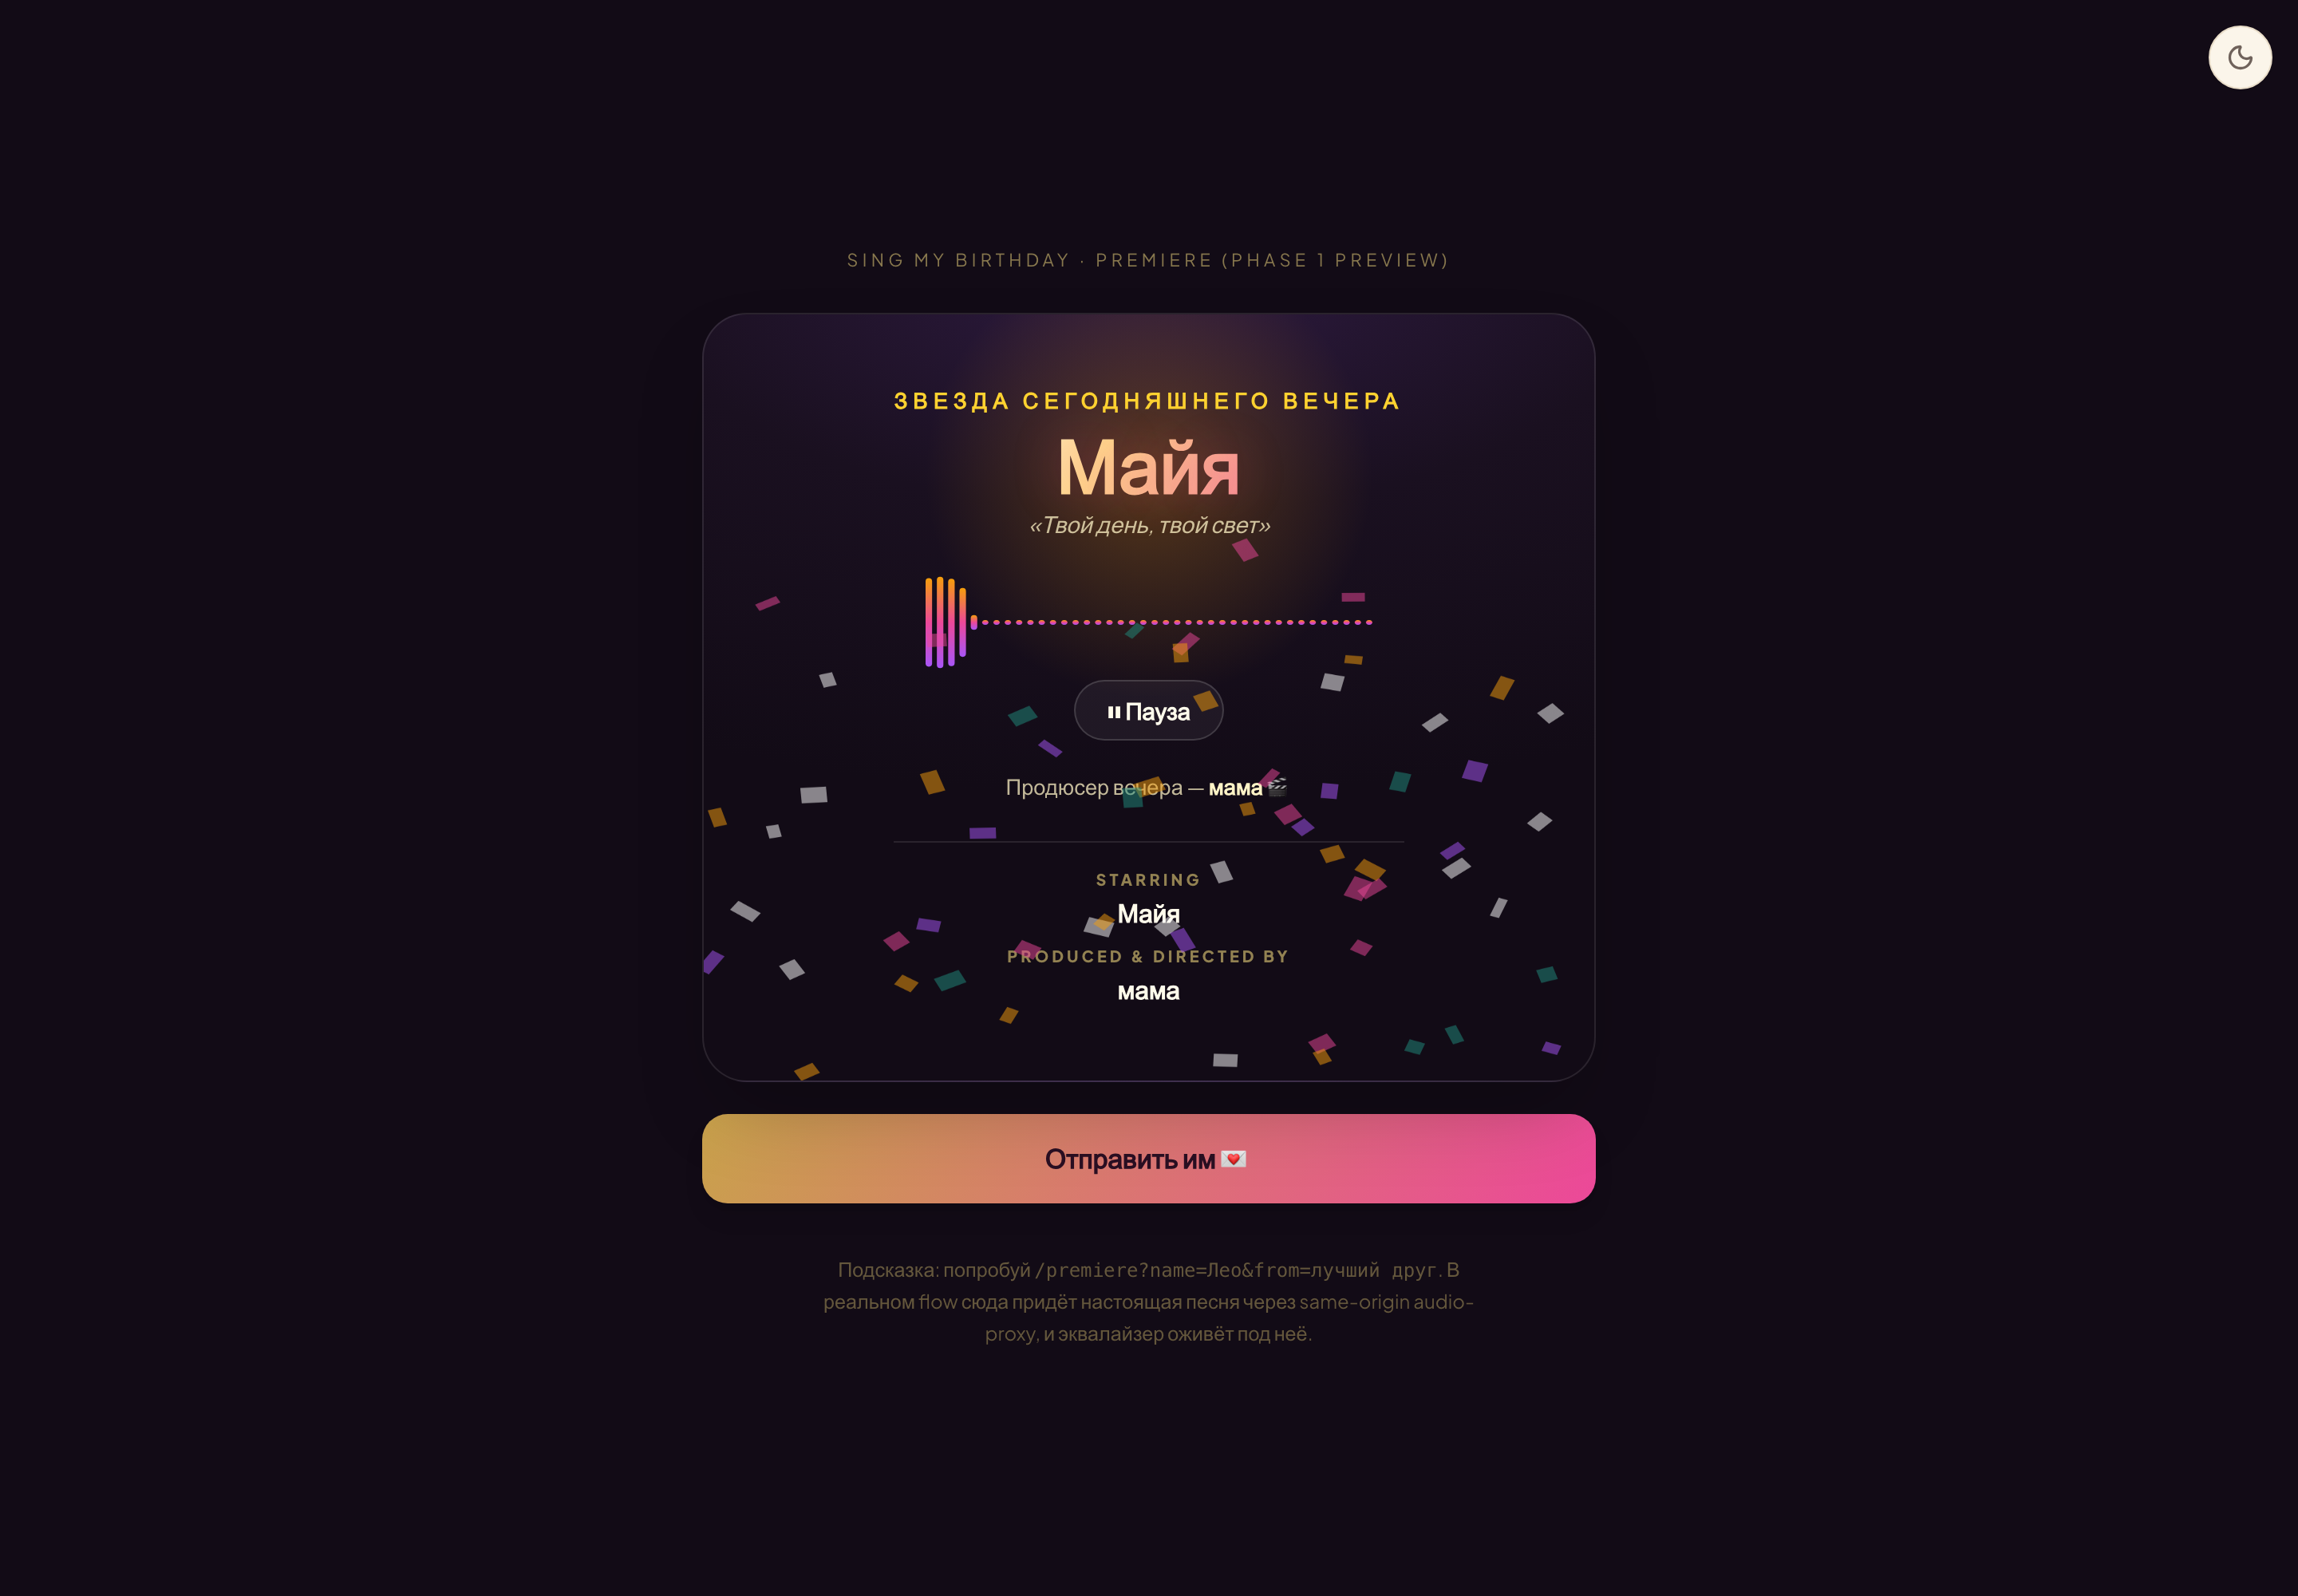
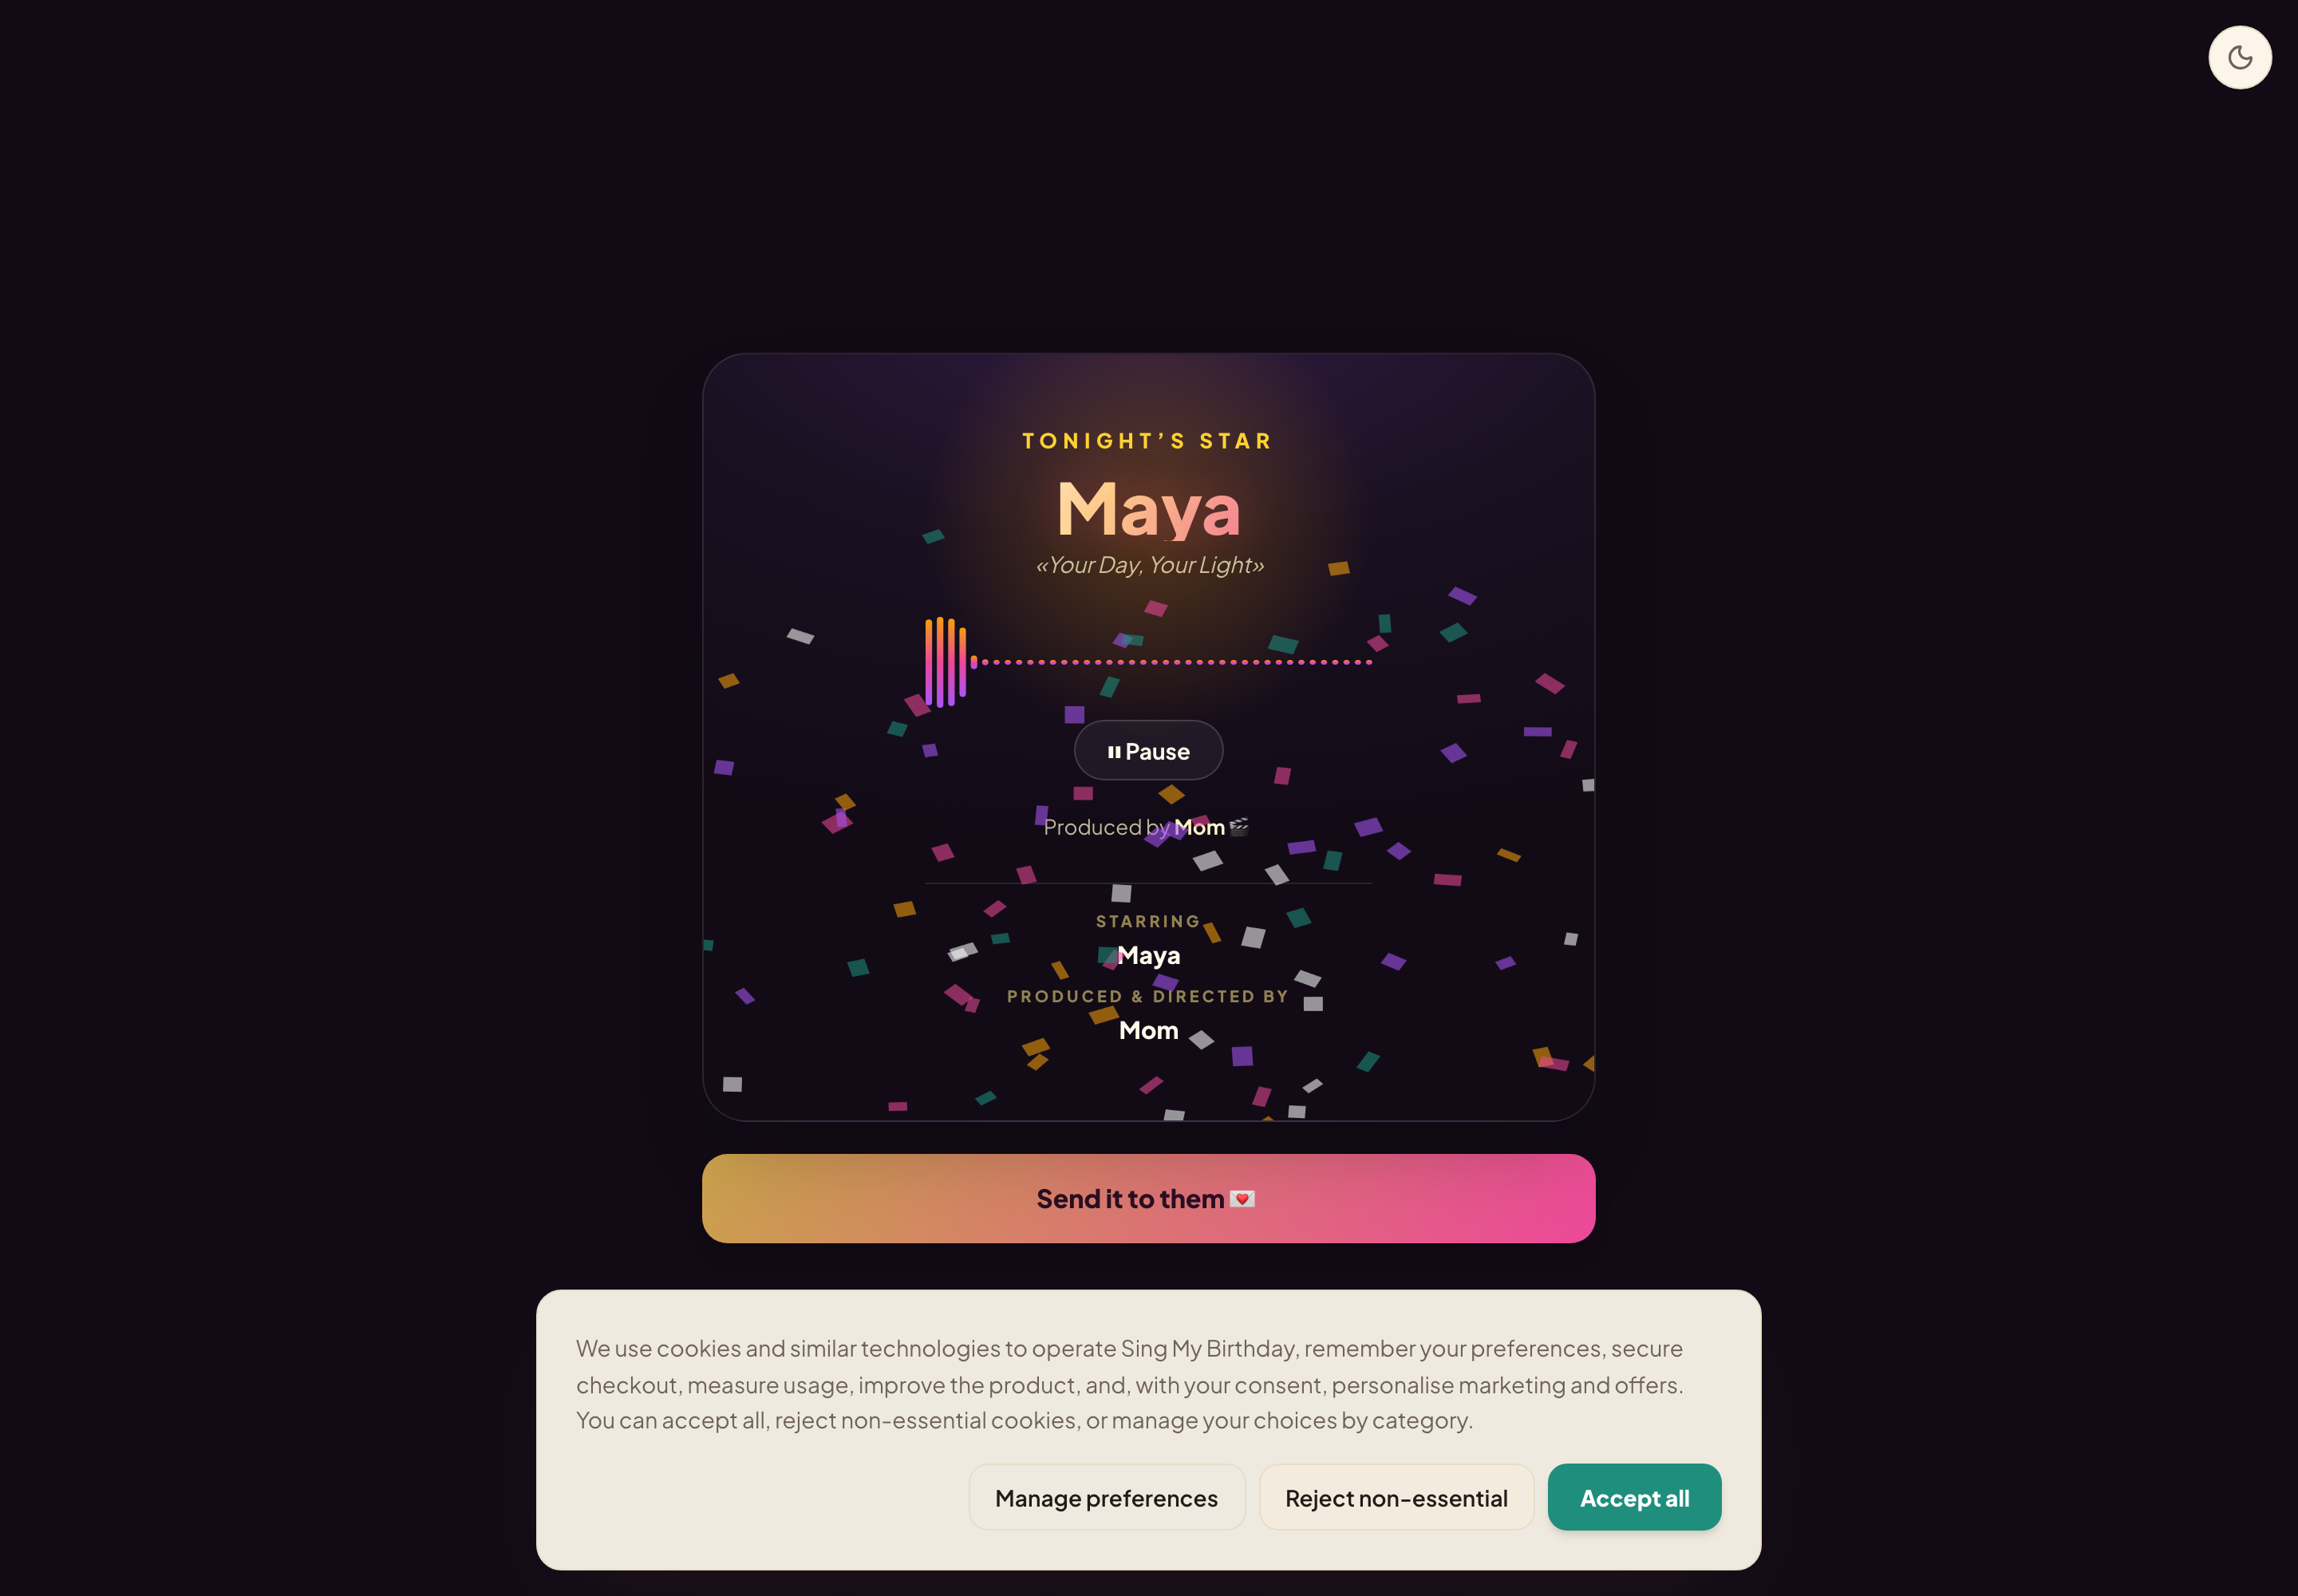
fix(premiere): clean up the /premiere dev preview route
Nothing half-built should be discoverable in production. The /premiere review
route showed Russian placeholder copy and a "PHASE 1 PREVIEW" debug hint.

- Render the SAME localized copy the shipping reveal uses: resolve the visitor's
  locale and pass real `t.premiere.*` labels (+ continueLabel) to PremiereReveal,
  exactly like SharePremiere — so the preview never falls back to placeholders.
- Drop the "PHASE 1 PREVIEW" kicker and the Russian debug-hint paragraph; English
  neutral defaults (name "Maya", from "Mom", title "Your Day, Your Light").
- Mark the route robots: noindex, nofollow — it is not linked from the product.
- Flip PremiereReveal's remaining Russian fallback strings (overline/intro/open/
  marquee/pause/replay/director defaults, continueLabel default, and the empty-name
  "star" fallback) to English, so no Russian remains even as a safety net.

The shipping reveal (via /share/[id]) is untouched — it already passed localized
labels and is unchanged.

Gate: tsc 0, eslint 0 errors, build ✓, tests 46/46. Preview only — not merged.

diff --git a/app/premiere/PremiereClient.tsx b/app/premiere/PremiereClient.tsx
@@ -2,23 +2,45 @@
 
 // Thin client wrapper so the server page can pass data while we attach a
 // client-side onContinue handler (functions can't cross the server boundary).
+// Uses the SAME localized `labels` the shipping reveal uses (see SharePremiere),
+// so the preview never falls back to placeholder copy.
 
 import PremiereReveal, {
   type PremiereRevealProps,
 } from "@/components/premiere/PremiereReveal";
+import { getDictionary, type Locale } from "@/lib/i18n";
 
-export default function PremiereClient(
-  props: Omit<PremiereRevealProps, "onContinue">,
-) {
+export default function PremiereClient({
+  locale = "en",
+  ...props
+}: Omit<PremiereRevealProps, "onContinue" | "labels" | "continueLabel"> & {
+  locale?: Locale;
+}) {
+  const t = getDictionary(locale);
+
   return (
     <PremiereReveal
       {...props}
-      continueLabel="Отправить им 💌"
+      continueLabel={t.premiere.continueLabel}
+      labels={{
+        overline: t.premiere.overline,
+        introPrefix: t.premiere.introPrefix,
+        introSuffix: t.premiere.introSuffix,
+        openCta: t.premiere.openCta,
+        marqueeOverline: t.premiere.marqueeOverline,
+        pause: t.premiere.pause,
+        replay: t.premiere.replay,
+        director: t.premiere.director,
+        noteLabel: t.premiere.noteLabel,
+        notePlay: t.premiere.notePlay,
+        notePause: t.premiere.notePause,
+        starringLabel: t.premiere.starringLabel,
+        producedByLabel: t.premiere.producedByLabel,
+        withLoveLabel: t.premiere.withLoveLabel,
+      }}
       onContinue={() => {
         // Preview-only: in the real flow this advances to the share/send step.
-        alert(
-          `В реальном flow здесь откроется отправка песни для ${props.recipientName}.`,
-        );
+        alert(`Preview: in the real flow this opens sending ${props.recipientName}’s song.`);
       }}
     />
   );

diff --git a/app/premiere/page.tsx b/app/premiere/page.tsx
@@ -1,13 +1,22 @@
-// Live preview of the reimagined Premiere reveal (Phase 1 centerpiece).
+// Internal preview of the Premiere reveal — a review surface for the reveal
+// component in the real app with real audio (the sample at /_test/full.mp3 gives
+// the Web-Audio equalizer a same-origin source to react to). It renders the SAME
+// localized copy the shipping reveal uses (via /share/[id]); this route is not
+// linked from the product and is kept out of search engines.
 //
-// Visit /premiere?name=Майя&from=мама to see it in the real app with real audio.
-// Uses the local sample at /_test/full.mp3 (present in dev) as a same-origin
-// source so the Web-Audio equalizer reacts to actual sound. This route is a
-// review surface for the moment before it's wired into the generator flow.
+// Visit /premiere?name=Maya&from=Mom to preview with your own values.
 
+import type { Metadata } from "next";
 import PremiereClient from "./PremiereClient";
+import { resolveLocale } from "@/lib/i18n/server";
+import { DEFAULT_LOCALE } from "@/lib/i18n";
 
 export const dynamic = "force-dynamic";
+
+// Not a user-facing marketing page — never index it.
+export const metadata: Metadata = {
+  robots: { index: false, follow: false },
+};
 
 export default async function PremierePreviewPage({
   searchParams,
@@ -18,29 +27,23 @@ export default async function PremierePreviewPage({
   const pick = (v: string | string[] | undefined) =>
     Array.isArray(v) ? v[0] : v;
 
-  const name = pick(sp.name) || "Майя";
-  const from = pick(sp.from) || "мама";
-  const title = pick(sp.title) || "Твой день, твой свет";
+  const locale = await resolveLocale().catch(() => DEFAULT_LOCALE);
+  const name = pick(sp.name) || "Maya";
+  const from = pick(sp.from) || "Mom";
+  const title = pick(sp.title) || "Your Day, Your Light";
   // Same-origin sample so AnalyserNode can read frequency data.
   const audio = pick(sp.audio) || "/_test/full.mp3";
 
   return (
     <main className="flex min-h-screen items-center justify-center bg-[#120b16] px-4 py-10">
       <div className="w-full">
-        <p className="mb-6 text-center text-[11px] uppercase tracking-[0.24em] text-amber-200/50">
-          Sing My Birthday · Premiere (Phase 1 preview)
-        </p>
         <PremiereClient
           recipientName={name}
           directorName={from}
           songTitle={title}
           audioSrc={audio}
+          locale={locale}
         />
-        <p className="mx-auto mt-8 max-w-[440px] text-center text-xs leading-relaxed text-amber-200/35">
-          Подсказка: попробуй <code>/premiere?name=Лео&amp;from=лучший друг</code>.
-          В реальном flow сюда придёт настоящая песня через same-origin
-          audio-proxy, и эквалайзер оживёт под неё.
-        </p>
       </div>
     </main>
   );

diff --git a/components/premiere/PremiereReveal.tsx b/components/premiere/PremiereReveal.tsx
@@ -98,7 +98,7 @@ export default function PremiereReveal({
   songTitle,
   directorNote,
   contributors,
-  continueLabel = "Отправить им",
+  continueLabel = "Send it to them 💌",
   onContinue,
   labels,
   previewSeconds,
@@ -108,19 +108,19 @@ export default function PremiereReveal({
   const [playing, setPlaying] = useState(false);
   const [playingNote, setPlayingNote] = useState(false);
 
-  // Resolve copy once, falling back to the Russian defaults for the /premiere
-  // preview (the real flow always passes localized `labels`).
+  // Resolve copy once, falling back to English defaults (the real flow and the
+  // /premiere preview both pass localized `labels`; these are a safety net).
   const L = {
-    overline: labels?.overline ?? "Премьера · только один вечер",
-    introPrefix: labels?.introPrefix ?? "Песня для ",
+    overline: labels?.overline ?? "Premiere · opening night",
+    introPrefix: labels?.introPrefix ?? "The premiere for ",
     introSuffix:
       labels?.introSuffix ??
-      " готова. Погаси свет, включи звук — и открой занавес.",
-    openCta: labels?.openCta ?? "🎬 Открыть премьеру",
-    marqueeOverline: labels?.marqueeOverline ?? "Звезда сегодняшнего вечера",
-    pause: labels?.pause ?? "⏸ Пауза",
-    replay: labels?.replay ?? "▶ Играть снова",
-    director: labels?.director ?? "Продюсер вечера —",
+      " is ready. Dim the lights, turn up the sound — and open on the first scene.",
+    openCta: labels?.openCta ?? "🎬 Start the premiere",
+    marqueeOverline: labels?.marqueeOverline ?? "Tonight’s star",
+    pause: labels?.pause ?? "⏸ Pause",
+    replay: labels?.replay ?? "▶ Play again",
+    director: labels?.director ?? "Produced by",
     noteLabel: labels?.noteLabel ?? "A message from the director",
     notePlay: labels?.notePlay ?? "▶ Play their message",
     notePause: labels?.notePause ?? "⏸ Pause",
@@ -145,7 +145,7 @@ export default function PremiereReveal({
   const rafRef = useRef<number | null>(null);
   const reactiveRef = useRef(false); // did we get real frequency data?
 
-  const star = (recipientName || "звезда").trim();
+  const star = (recipientName || "the star").trim();
   const director = (directorName || "").trim();
 
   // ---- Audio-reactive equalizer (Canvas 2D) ----------------------------------